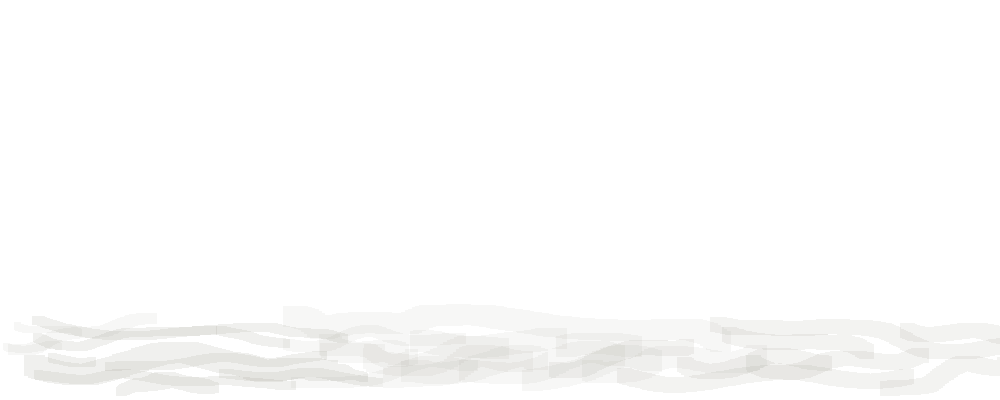
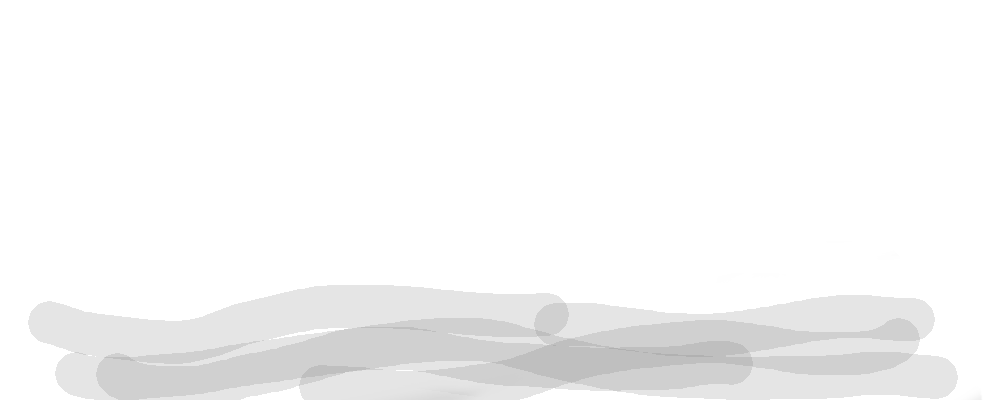
Added some textures, changed movement to work with multiple resolutions

Changed region(s): [[0.031, 0.69, 0.992, 1.0], [0.031, 0.9, 0.062, 0.96], [0.992, 0.84, 1.0, 0.87]]

diff --git a/core/src/com/over/whelmed/OverWhelmed.java b/core/src/com/over/whelmed/OverWhelmed.java
@@ -32,6 +32,7 @@ public class OverWhelmed implements Screen{
 	int movement;
 	int wallx;
 	int timer;
+	final int originx = 0;
 	boolean directionforward;
 	Sprite BackgroundRocks;
 	Sprite background;
@@ -39,6 +40,7 @@ public class OverWhelmed implements Screen{
 	Sprite nightsky;
 	SpriteBatch spriteBatch;
 	float stateTime;
+	Sprite mountains;
 	Sprite currentFrame;
 	Sprite moon;
 	List<Sprite> mistlist;
@@ -84,28 +86,30 @@ public class OverWhelmed implements Screen{
 	    viewport = new ExtendViewport(800, 600, camera);
 		batch = new SpriteBatch();
 		BackgroundRocks = new Sprite(new Texture(Gdx.files.internal("..\\core\\assets\\Background Rocks.png")));
+		mountains = new Sprite(new Texture(Gdx.files.internal("..\\core\\assets\\Mountains.png")));
 		nightsky = new Sprite(new Texture(Gdx.files.internal("..\\core\\assets\\Night Sky.png")));
 		background = new Sprite(new Texture(Gdx.files.internal("..\\core\\assets\\Background.png")));
 		wall = new Sprite(new Texture(Gdx.files.internal("..\\core\\assets\\Wall.png")));
 		Sprite mist = new Sprite(new Texture(Gdx.files.internal("..\\core\\assets\\Mist.png")));
 		mistlist.add(mist);
-		mist.scale(1);
-		mist.scale(scalingFactor);
-		moon = new Sprite(new Texture(Gdx.files.internal("..\\core\\assets\\Moon.png")));
 		BackgroundRocks.scale(1);
 		BackgroundRocks.scale(scalingFactor);
+		mist.scale(scalingFactor);
+		moon = new Sprite(new Texture(Gdx.files.internal("..\\core\\assets\\Moon.png")));
+		mountains.scale(-2);
+		mountains.scale(scalingFactor);
 		wall.scale(1);
 		moon.scale(1);
 		moon.scale(scalingFactor);
 		nightsky.scale(scalingFactor);
 		wall.scale(scalingFactor);
-		background.scale((float) 0.3);
+		background.scale(1);
 		background.scale(scalingFactor);
-		xmoonposition = 0.1f;
+		xmoonposition = -600;
 		ymoonposition = 0.1f;
-		x = 1000;
+		x = (int) (game.getWindowWidth()/2.0f);
 		wallx = -1000;
-		movement = -600;
+		movement = 0;
 		y = 25;
 		timer = 1;
 		directionforward = true;
@@ -121,11 +125,12 @@ public class OverWhelmed implements Screen{
 		stateTime += Gdx.graphics.getDeltaTime();
 		currentFrame = (Sprite)Knightanimation.getKeyFrame(stateTime, true);
 		batch.begin();
-		batch.draw(nightsky, movement/2, 0, nightsky.getScaleX()*nightsky.getWidth(), nightsky.getScaleY()*nightsky.getHeight());
+		batch.draw(nightsky, movement/3, 0, nightsky.getScaleX()*nightsky.getWidth(), nightsky.getScaleY()*nightsky.getHeight());
+		batch.draw(mountains, movement/2, 0+50, mountains.getScaleX()*mountains.getWidth(), mountains.getScaleY()*mountains.getHeight());
+		batch.draw(moon, xmoonposition + movement, ymoonposition, moon.getScaleX()*moon.getWidth(), moon.getScaleY()*moon.getHeight());
 		batch.draw(BackgroundRocks, movement, 0, BackgroundRocks.getScaleX()*BackgroundRocks.getWidth(), BackgroundRocks.getScaleY()*BackgroundRocks.getHeight());
 		batch.draw(wall, movement-150, 0, wall.getScaleX()*wall.getWidth(), wall.getScaleY()*wall.getHeight());
 		batch.draw(currentFrame, x, 46, currentFrame.getScaleX()*currentFrame.getWidth(), currentFrame.getScaleY()*currentFrame.getHeight());
-		batch.draw(moon, xmoonposition + movement, 0 + ymoonposition, moon.getScaleX()*moon.getWidth(), moon.getScaleY()*moon.getHeight());
 		batch.draw(background, movement, 0, background.getScaleX()*background.getWidth(), background.getScaleY()*background.getHeight());
 		for(Sprite mist : mistlist){
 			batch.draw(mist, mist.getX() + movement, 0, mist.getScaleX()*mist.getWidth(), mist.getScaleY()*mist.getHeight());
@@ -135,7 +140,6 @@ public class OverWhelmed implements Screen{
 		if(firstmist.getX() >= 0){
 			Sprite mist = new Sprite(new Texture(Gdx.files.internal("..\\core\\assets\\Mist.png")));
 			mistlist.add(0, mist);
-			mist.scale(1);
 			mist.scale(getScalingFactor());
 			mist.setX(0-mist.getWidth()*mist.getScaleX());
 		}
@@ -143,47 +147,46 @@ public class OverWhelmed implements Screen{
 		Sprite lastmist = mistlist.get(mistlist.size()-1);
 		if(lastmist.getX() >= lastmist.getWidth()*lastmist.getScaleX()+1000){
 			mistlist.remove(lastmist);
-			xmoonposition = 950;
-			ymoonposition = 100;
 		}
 		batch.end();
 		
-		if (Gdx.input.isKeyPressed(Keys.DPAD_RIGHT)) 
+		if (Gdx.input.isKeyPressed(Keys.DPAD_RIGHT)) {
 		      movement -= 5;
-		if (Gdx.input.isKeyPressed(Keys.DPAD_LEFT)) 
+		}
+		if (Gdx.input.isKeyPressed(Keys.DPAD_LEFT)){
 		      movement -= -5;
-		if (movement < -2100){
-			movement = -2100;
-			x -= -5;
 		}
-		if (x>1000){
-			movement = -2100;
-		}
-		if (Gdx.input.isKeyPressed(Keys.DPAD_LEFT)&&(x>1000)){
+		if (Gdx.input.isKeyPressed(Keys.DPAD_LEFT)&&(x>game.getWindowWidth()/2.0f)){
 			x-= 5;
 		}
-		if (xmoonposition<1000){
-			xmoonposition += 1.1;
+		if (Gdx.input.isKeyPressed(Keys.DPAD_RIGHT)&&(x<game.getWindowWidth()/2.0f)){
+			x-= -5;
+			movement = originx;
 		}
-		if (ymoonposition < 400){
-			//https://www.desmos.com/calculator/00kjado6gm
-			ymoonposition = (float) (-0.05*(0.1*Math.pow(xmoonposition-180, 2.0))+160);
+		if (movement < -background.getWidth()*getScalingFactor()){
+			movement = (int) (-background.getWidth()*getScalingFactor());
+			x -= -5;
 		}
+		if (x>game.getWindowWidth()/2){
+			movement = (int) (-background.getWidth()*getScalingFactor());
+		}		
+		xmoonposition += 0.5;
+		//https://www.desmos.com/calculator/yt6zx55r2u
+		ymoonposition = (float) (-0.0005*Math.pow(xmoonposition-2, 2.0)+160);
+		System.out.println("X:" + xmoonposition + ", Y"  + ymoonposition);
+		
 		if (x>1750){
 			x=1750;
 		}
-		if (movement >0){
-			movement = 0;
+		if (movement > originx){
+			movement = originx;
 			x -= 5;
 		}
-		if (x< 0){
-			movement = 0;
-			x=0;
+		if (x < originx){
+			movement = originx;
+			x=originx;
 		}
-		if (Gdx.input.isKeyPressed(Keys.DPAD_RIGHT)&&(x<1000)){
-			x-= -5;
-			movement = 0;
-		}
+		
 		/** if (x >= 400){
 			directionforward = false;
 		}

diff --git a/desktop/src/com/first/game/desktop/DesktopLauncher.java b/desktop/src/com/first/game/desktop/DesktopLauncher.java
@@ -12,6 +12,12 @@ public class DesktopLauncher {
 		config.width = LwjglApplicationConfiguration.getDesktopDisplayMode().width;
 		config.height = LwjglApplicationConfiguration.getDesktopDisplayMode().height;
 		config.fullscreen = true;
+		
+		//config.width = 640;
+		//config.height = 480;
+		//config.fullscreen = false;
+		 
+		 
 		new LwjglApplication(new GameManager(config.width, config.height), config);
 	}
 }
